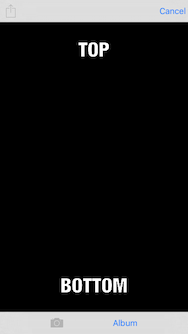
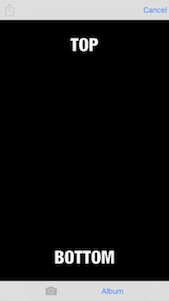
docs: Fix link and reduce size of screenshots in README.md

diff --git a/README.md b/README.md
@@ -7,4 +7,4 @@
 
 ## Screenshots
 
-![alt text](Screenshots/InitialViewControllerIdle.png "Initial View Controller") ![alt text](Screenshots/MemeEditorViewControllerDefault.png "Meme Editor View Controller Default") ![alt text](Screenshots/MemeEditorViewControllerSample.png "Meme Editor View Controller Sample") ![alt text](Screenshots/SentMemesTableViewController.png "Sent Memes Table View Controller") ![alt text](Screenshots/SentMemesCollectionViewController.png "Sent Memes Collection View Controller")
+![alt text](Screenshots/InitialViewController.png "Initial View Controller") ![alt text](Screenshots/MemeEditorViewControllerDefault.png "Meme Editor View Controller Default") ![alt text](Screenshots/MemeEditorViewControllerSample.png "Meme Editor View Controller Sample") ![alt text](Screenshots/SentMemesTableViewController.png "Sent Memes Table View Controller") ![alt text](Screenshots/SentMemesCollectionViewController.png "Sent Memes Collection View Controller")
